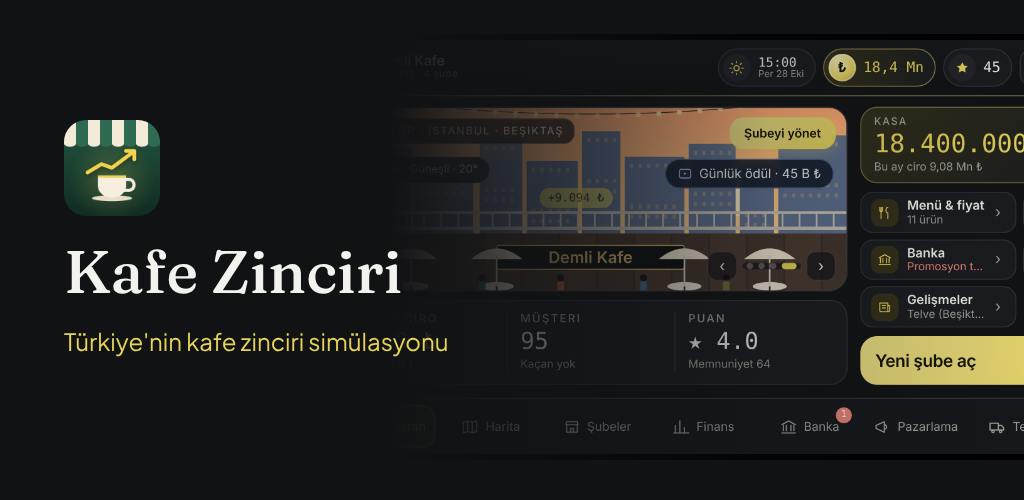
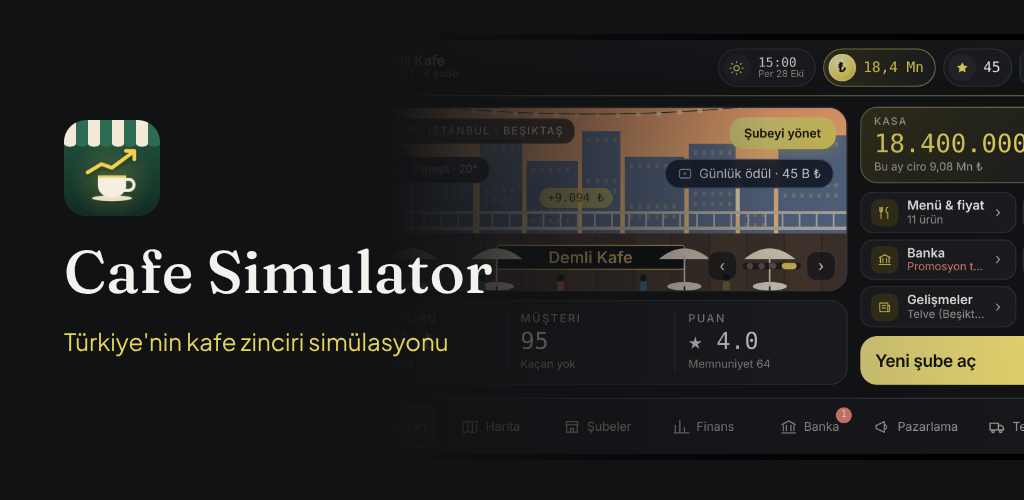
Mağaza: gizlilik sayfası, app-ads.txt, Cafe Simulator öne çıkan görseli ve metinler
Claude-Session: https://claude.ai/code/session_01Bv4UHxgu9ytg4173wfFM6N

Changed region(s): [[0.0625, 0.48, 0.5, 0.6]]

diff --git a/store/site/cafe-simulator-gizlilik.html b/store/site/cafe-simulator-gizlilik.html
@@ -1,0 +1,85 @@
+<!doctype html>
+<html lang="tr">
+<head>
+<meta charset="utf-8">
+<meta name="viewport" content="width=device-width, initial-scale=1">
+<title>Cafe Simulator – Gizlilik Politikası</title>
+<style>
+  :root { --bg:#fbfaf8; --fg:#1d1d1f; --mut:#5f6368; --line:#e6e3de; --acc:#2f6fd6; }
+  @media (prefers-color-scheme: dark) { :root { --bg:#111214; --fg:#ececec; --mut:#a1a1a6; --line:#2a2b2e; --acc:#7aa7ff; } }
+  body { margin:0; background:var(--bg); color:var(--fg); font:16px/1.65 -apple-system, BlinkMacSystemFont, "Segoe UI", Inter, Roboto, sans-serif; }
+  main { max-width:760px; margin:0 auto; padding:48px 20px 80px; }
+  h1 { font-size:30px; font-weight:600; margin:0 0 6px; }
+  h2 { font-size:19px; font-weight:600; margin:34px 0 8px; }
+  p, li { color:var(--fg); }
+  .mut { color:var(--mut); font-size:14px; }
+  ul { padding-left:20px; }
+  a { color:var(--acc); }
+  table { width:100%; border-collapse:collapse; font-size:15px; margin-top:8px; }
+  th, td { text-align:left; padding:10px 8px; border-bottom:1px solid var(--line); vertical-align:top; }
+  th { font-weight:600; }
+  hr { border:0; border-top:1px solid var(--line); margin:48px 0 24px; }
+</style>
+</head>
+<body>
+<main>
+<h1>Cafe Simulator – Gizlilik Politikası</h1>
+<p class="mut">Son güncelleme: 10 Kasım 2026</p>
+
+<p>Bu politika, ArcByte Yazılım Teknolojileri Limited Şirketi'nin ("ArcByte", "biz") Android ve iOS için yayımladığı <b>Cafe Simulator</b> mobil oyununda hangi verilerin işlendiğini açıklar. Oyunda hesap açma, ad, e-posta veya telefon numarası isteme gibi bir işlem yoktur.</p>
+
+<h2>1. Veri sorumlusu ve iletişim</h2>
+<p>ArcByte Yazılım Teknolojileri Limited Şirketi – <a href="https://arcbyte.io">arcbyte.io</a><br>
+İletişim ve KVKK başvuruları: <a href="mailto:info@arcbyte.io">info@arcbyte.io</a></p>
+
+<h2>2. Cihazınızda tutulan oyun verileri</h2>
+<p>Oyun kaydınız (şirketiniz, şubeleriniz, kasanız), Altın Çekirdek bakiyeniz, satın aldığınız kalıcı özellikler ve ayarlarınız cihazınızda saklanır. Bu veriler bize gönderilmez.</p>
+<ul>
+  <li><b>Android:</b> Cihazınızda Google yedeklemesi açıksa, oyun kaydınız Android'in otomatik yedekleme sistemiyle Google hesabınıza yedeklenebilir.</li>
+  <li><b>iOS:</b> Oyun kaydınız ve Altın bakiyeniz, uygulama silinip yeniden yüklendiğinde geri gelmesi için Apple'ın iCloud anahtar-değer deposuna yazılır.</li>
+</ul>
+<p>Bu yedeklere yalnızca kendi Google veya Apple hesabınız üzerinden erişilir; ArcByte bunları göremez.</p>
+
+<h2>3. Reklamlar (Google AdMob)</h2>
+<p>Oyunda isteğe bağlı, ödüllü video reklamlar bulunur. Reklamlar Google AdMob tarafından gösterilir. AdMob; reklam kimliği (Android Advertising ID / Apple IDFA), IP adresi, cihaz modeli, işletim sistemi ve reklam etkileşimleri gibi verileri reklam sunmak, ölçmek ve kötüye kullanımı önlemek amacıyla işleyebilir.</p>
+<ul>
+  <li>iOS'ta reklam kimliği yalnızca uygulama takip izni (ATT) ekranında izin verirseniz kullanılır.</li>
+  <li>Android'de reklam kimliğinizi cihaz ayarlarından sıfırlayabilir veya kişiselleştirilmiş reklamları kapatabilirsiniz.</li>
+  <li>Ayrıntılar: <a href="https://policies.google.com/technologies/ads">Google reklam politikası</a></li>
+</ul>
+
+<h2>4. Uygulama içi satın alımlar (Google Play, App Store, RevenueCat)</h2>
+<p>Ödemeler doğrudan Google Play veya Apple App Store tarafından alınır; kart bilgileriniz bize ulaşmaz. Satın alımları doğrulamak ve "Satın alımları geri yükle" özelliğini sağlamak için RevenueCat hizmetini kullanırız. RevenueCat'e rastgele oluşturulmuş bir uygulama kullanıcı kimliği ve satın alma kayıtları (ürün, tarih, mağaza işlem bilgisi) iletilir. Ayrıntılar: <a href="https://www.revenuecat.com/privacy">RevenueCat gizlilik politikası</a></p>
+
+<h2>5. Saat doğrulama</h2>
+<p>Oyun kapalıyken geçen süreyi doğru hesaplamak için oyun açıldığında Google, Cloudflare veya Apple sunucularından güncel saat bilgisi alınır. Bu isteklerde yalnızca standart bağlantı bilgileri (IP adresi gibi) bu sunuculara iletilir; oyun verisi gönderilmez.</p>
+
+<h2>6. Toplanan veriler özeti</h2>
+<table>
+  <tr><th>Veri</th><th>Kim işler</th><th>Amaç</th></tr>
+  <tr><td>Reklam kimliği, IP, cihaz bilgisi, reklam etkileşimleri</td><td>Google AdMob</td><td>Reklam gösterimi, ölçüm, sahtekârlık önleme</td></tr>
+  <tr><td>Satın alma geçmişi, rastgele kullanıcı kimliği</td><td>Google Play / App Store, RevenueCat</td><td>Ödeme, doğrulama, geri yükleme</td></tr>
+  <tr><td>Uygulama çökme ve tanılama bilgileri</td><td>Google Play / App Store (kendi sistemleri)</td><td>Hata tespiti</td></tr>
+  <tr><td>Oyun kaydı</td><td>Yalnızca cihazınız ve kendi yedekleriniz</td><td>Oyunun çalışması</td></tr>
+</table>
+<p>Verilerinizi satmıyoruz. Analitik veya pazarlama amaçlı ayrı bir takip aracı kullanmıyoruz.</p>
+
+<h2>7. Çocuklar</h2>
+<p>Cafe Simulator 13 yaş altındaki çocuklara yönelik değildir ve bu yaş grubundan bilerek kişisel veri toplamayız.</p>
+
+<h2>8. Saklama ve silme</h2>
+<p>Oyunu cihazınızdan silerek cihazdaki oyun verilerini silebilirsiniz. Google veya iCloud yedekleri kendi hesap ayarlarınızdan silinebilir. RevenueCat'teki satın alma kayıtlarınızın silinmesini <a href="mailto:info@arcbyte.io">info@arcbyte.io</a> adresine yazarak isteyebilirsiniz; yasal saklama yükümlülükleri saklıdır.</p>
+
+<h2>9. KVKK kapsamındaki haklarınız</h2>
+<p>6698 sayılı Kişisel Verilerin Korunması Kanunu'nun 11. maddesi kapsamındaki haklarınızı (bilgi talep etme, düzeltme, silme, itiraz vb.) <a href="mailto:info@arcbyte.io">info@arcbyte.io</a> adresine başvurarak kullanabilirsiniz.</p>
+
+<h2>10. Değişiklikler</h2>
+<p>Bu politikayı güncellediğimizde bu sayfadaki tarih değişir. Önemli değişiklikleri oyun içinde de duyururuz.</p>
+
+<hr>
+
+<h1 style="font-size:24px">Cafe Simulator – Privacy Policy (summary)</h1>
+<p>Cafe Simulator is published by ArcByte Yazılım Teknolojileri Limited Şirketi (contact: <a href="mailto:info@arcbyte.io">info@arcbyte.io</a>). The game has no accounts and does not ask for your name, email or phone number. Game progress is stored on your device and may be backed up to your own Google account (Android backup) or iCloud key-value storage (iOS). Optional rewarded video ads are served by Google AdMob, which may process your advertising ID, IP address, device information and ad interactions. In-app purchases are processed by Google Play or the App Store and validated through RevenueCat using a random app user ID and purchase records. The game fetches the current time from Google, Cloudflare or Apple servers. We do not sell personal data, do not use separate analytics or marketing trackers, and the game is not directed at children under 13. To request deletion of purchase records, email info@arcbyte.io.</p>
+</main>
+</body>
+</html>

diff --git a/store/MAGAZA-METINLERI.md b/store/MAGAZA-METINLERI.md
@@ -4,7 +4,7 @@
 
 | Alan | Metin | Sınır |
 |---|---|---|
-| Uygulama adı (App Store / Play) | Kafe Zinciri: Kafe Simülasyonu | 30 |
+| Uygulama adı (App Store / Play) | Cafe Simulator: Kafe Zinciri | 30 |
 | Alt başlık (App Store) | Türkiye'de kafe zinciri kur | 30 |
 | Kısa açıklama (Play) | 81 ilde dükkan aç, menünü belirle, rakiplerini geç: kendi kafe zincirini kur. | 80 |
 | Tanıtım metni (App Store) | Ramazan'da Konya'da ciro düşer, Kurban'da İstanbul boşalır. Doğru semti seç, zincirini büyüt. | 170 |
@@ -14,7 +14,7 @@
 
 Kendi kafeni aç, Türkiye'nin en büyük kafe zincirini kur.
 
-Kafe Zinciri, Türkiye'de gerçekçi bir kafe işletmeciliği simülasyonu. 81 ilin gerçek ilçelerinde dükkan kiralar, menünü ve fiyatlarını belirler, personelini yönetir, rakiplerinle yarışırsın. Her kararın kasana yansır.
+Cafe Simulator, Türkiye'de gerçekçi bir kafe işletmeciliği simülasyonu. 81 ilin gerçek ilçelerinde dükkan kiralar, menünü ve fiyatlarını belirler, personelini yönetir, rakiplerinle yarışırsın. Her kararın kasana yansır.
 
 GERÇEK TÜRKİYE
 • 81 il ve gerçek ilçe sınırları; her semtin kendi kirası, yaya trafiği, öğrenci ve ofis yoğunluğu
